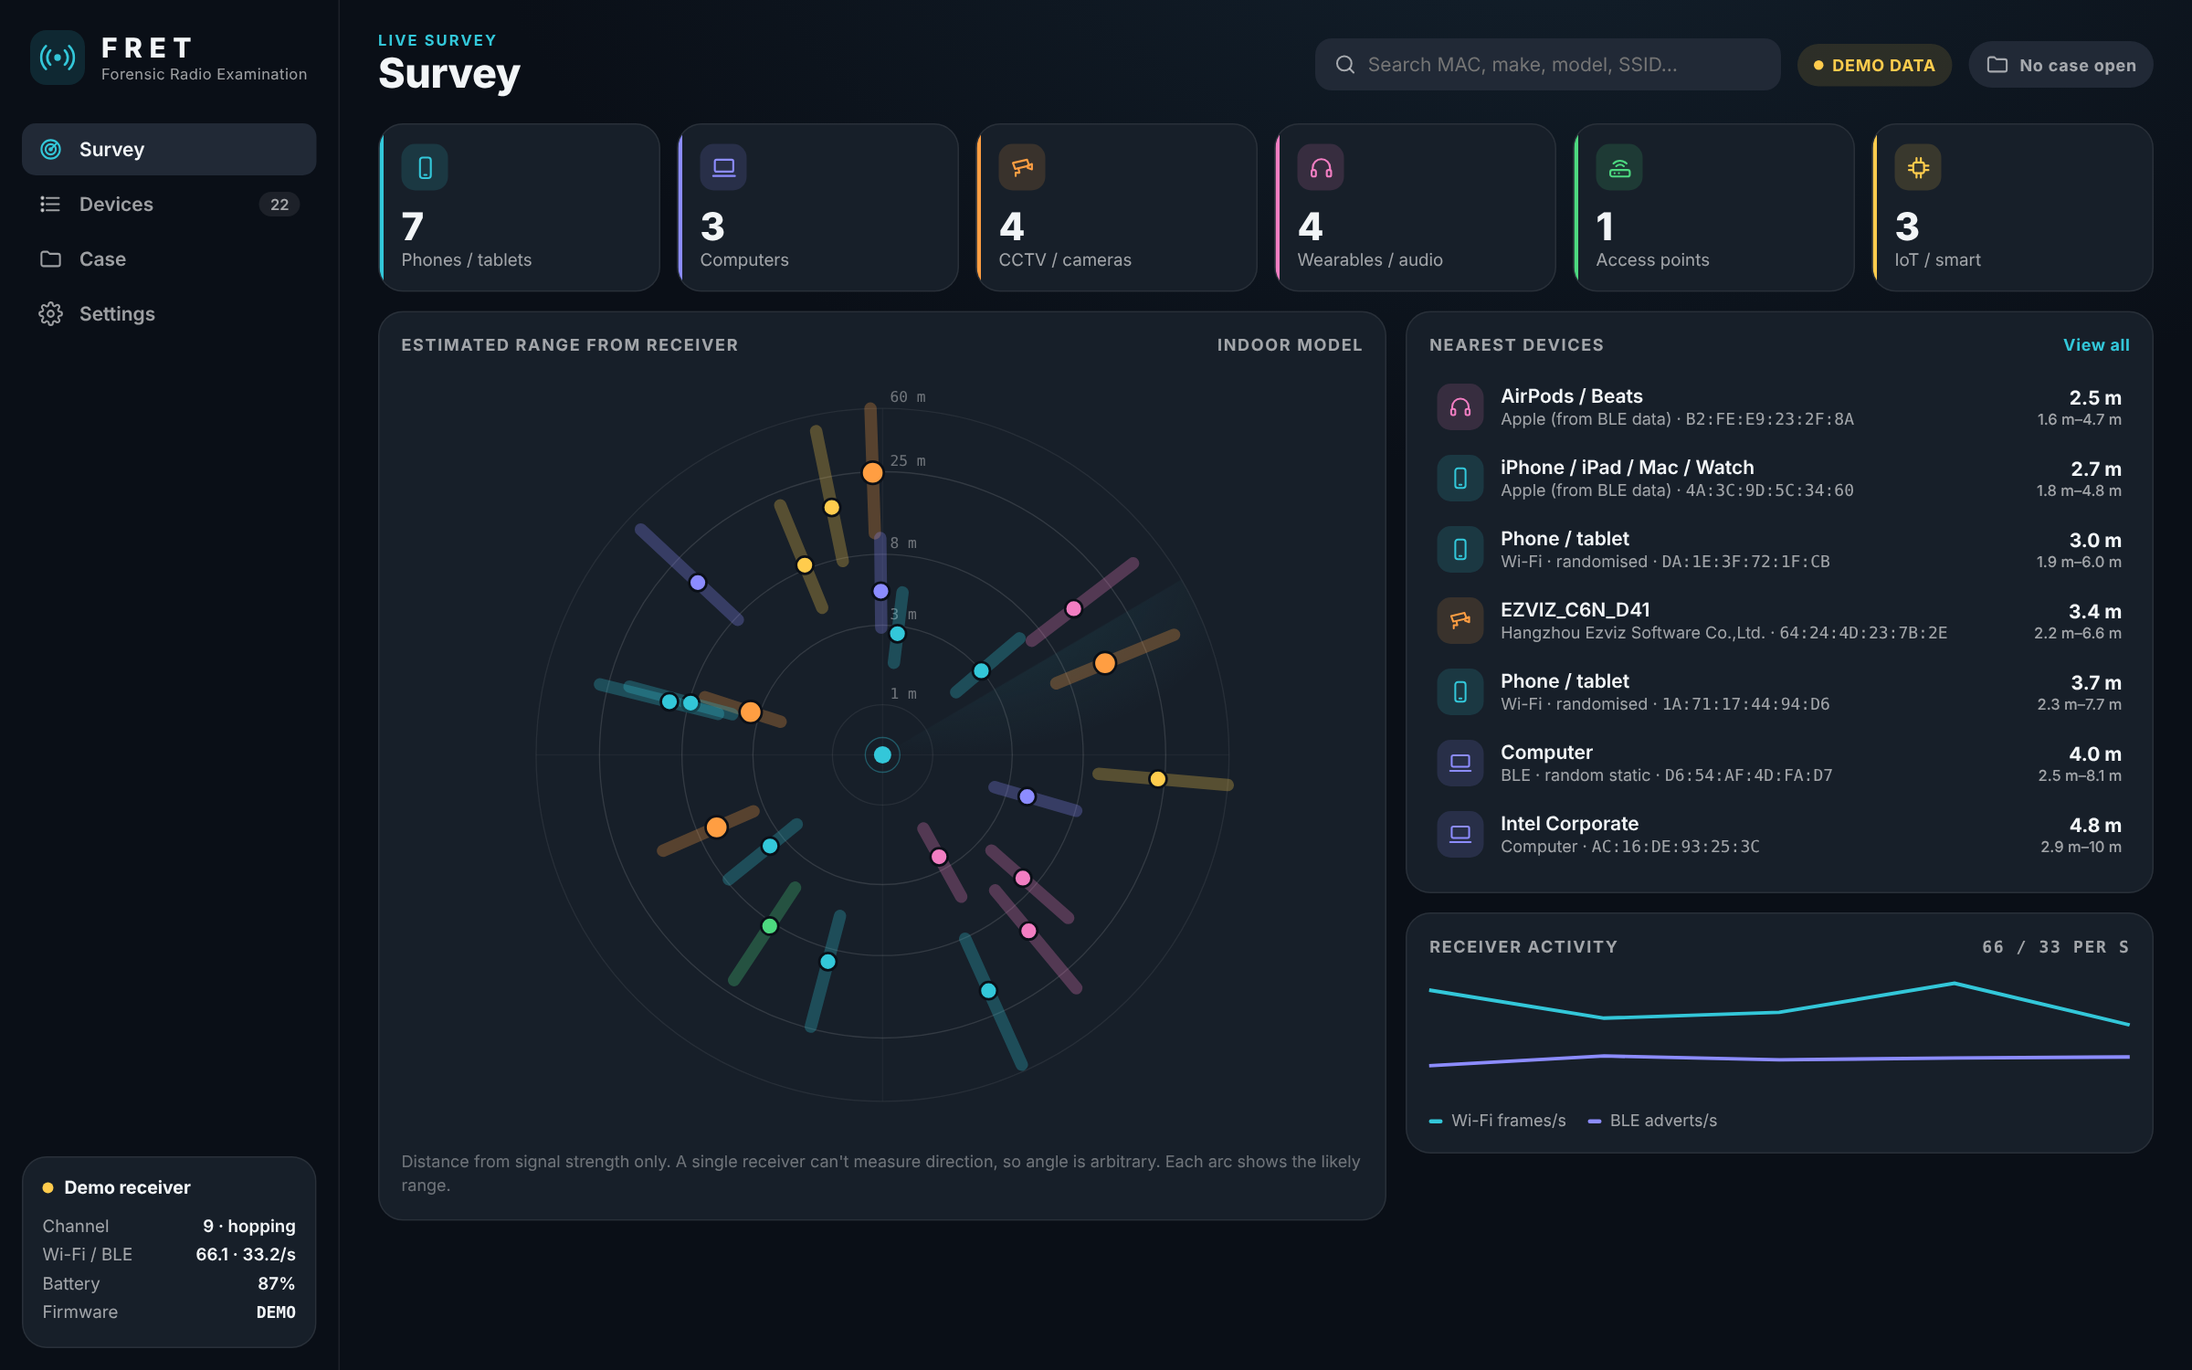
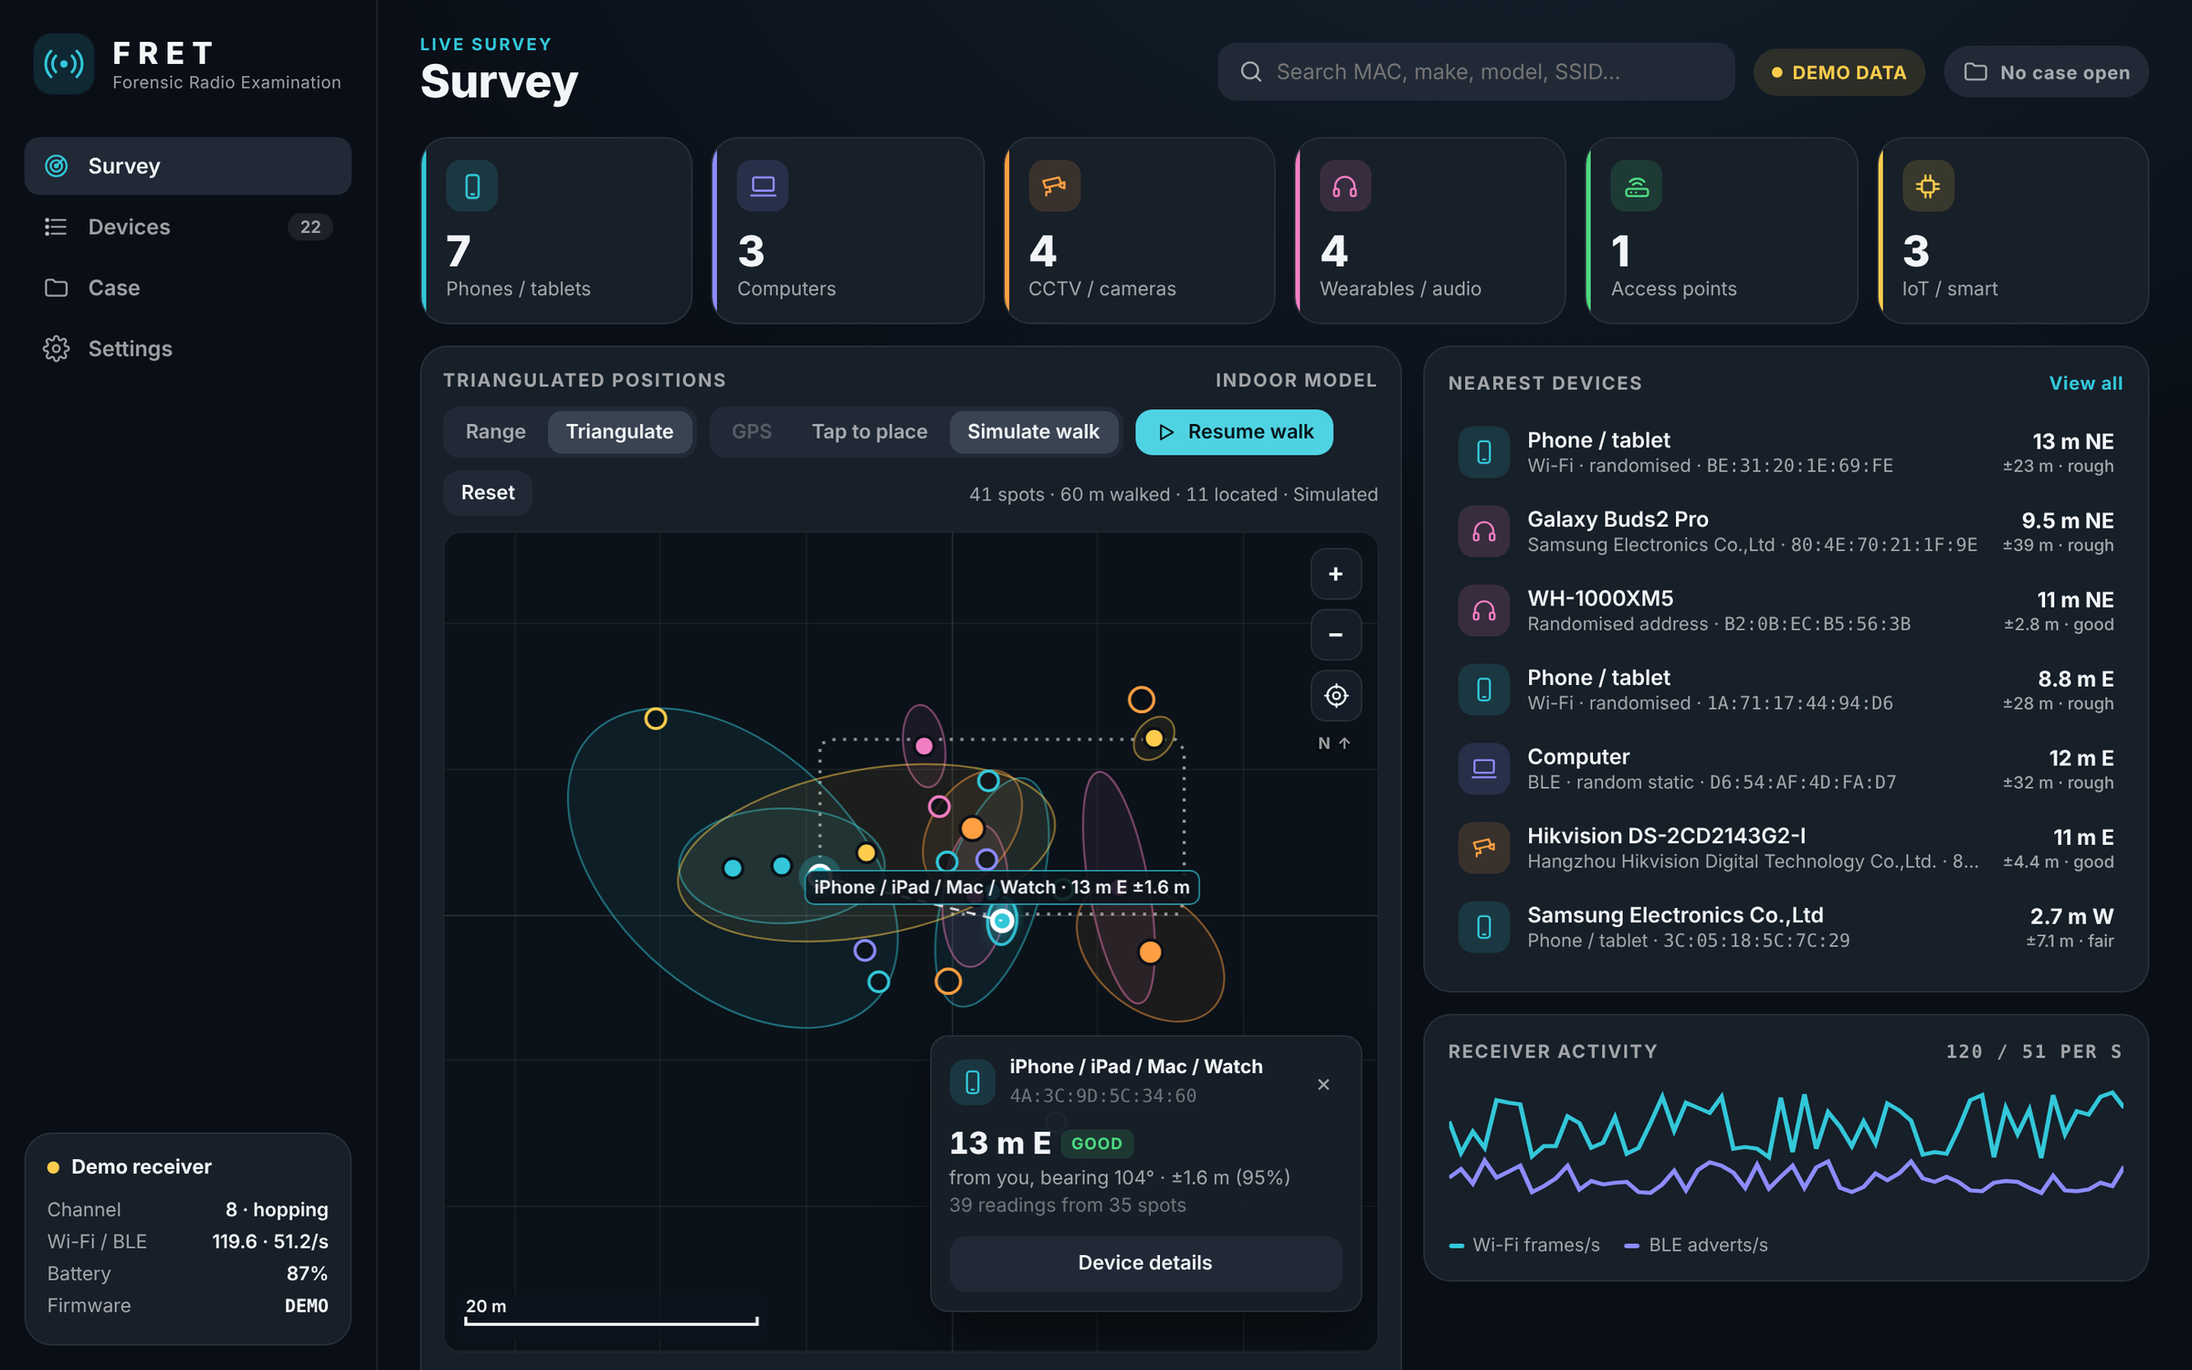
Update README and docs for the survey map and triangulation
- README: intro, features, screenshots (new survey, range and
  triangulate images), requirements, typical survey, how it works
  diagram and solver notes, limitations, map imagery privacy note,
  roadmap and project structure.
- HOW_IT_WORKS: new 'Triangulation from a walk' section.
- Map labels: merge the selected device's name and distance into one
  label, drawn above all markers so nothing covers it.

diff --git a/app/fret/ui/app.js b/app/fret/ui/app.js
@@ -252,7 +252,7 @@ function label(text, x, y, color) {
 }
 function fitZoom(radiusM) { return clamp(Math.log2(156543.03392 * cosLat() / (radiusM / Math.max(80, Math.min(CW, CH) / 2 - 24))), 14, 21.5); }
 
-let drawQueued = false;
+let drawQueued = false, pendingLabel = null;
 function drawMap() { if (!drawQueued) { drawQueued = true; requestAnimationFrame(() => { drawQueued = false; paintMap(); }); } }
 function paintMap() {
   if (S.view !== 'survey' || !S.state || !sizeMap()) return;
@@ -262,8 +262,10 @@ function paintMap() {
   c.fillStyle = '#0b1219'; c.fillRect(0, 0, CW, CH);
   if (!M.tileOk) drawGrid();
   if (!M.noImagery) { drawTiles(); if (M.tileOk) { c.fillStyle = 'rgba(6,10,16,.3)'; c.fillRect(0, 0, CW, CH); } }
+  pendingLabel = null;
   if (M.mode === 'range') drawRange(); else drawTri();
   drawMe(); drawScale();
+  if (pendingLabel) label(...pendingLabel);   // labels go on top of every marker
   cv.classList.toggle('place', M.src === 'tap');
   $('#mAttr').textContent = M.tileOk ? 'Imagery © Esri, Maxar, Earthstar Geographics' : '';
 }
@@ -282,7 +284,7 @@ function drawRange() {
     c.fillStyle = hexA(col, .16); c.beginPath();
     c.arc(sx, sy, r.max / m, 0, Math.PI * 2); c.arc(sx, sy, r.min / m, 0, Math.PI * 2, true); c.fill();
     c.strokeStyle = col; c.lineWidth = 2.5; c.beginPath(); c.arc(sx, sy, r.est / m, 0, Math.PI * 2); c.stroke();
-    label(`${title(d)} · ${fmtM(r.est)}`, sx, sy - r.est / m, col);
+    pendingLabel = [`${title(d)} · ${fmtM(r.est)}`, sx, sy - r.est / m, col];
   }
 }
 
@@ -318,8 +320,7 @@ function drawTri() {
       const [mx, my] = scr(M.me.x, M.me.y), rel = relTo(f);
       c.strokeStyle = 'rgba(255,255,255,.8)'; c.lineWidth = 1.5; c.setLineDash([6, 5]);
       c.beginPath(); c.moveTo(mx, my); c.lineTo(x, y); c.stroke(); c.setLineDash([]);
-      label(`${fmtM(rel.d)} ${rel.dir} · ±${fmtM(f.r95)}`, (mx + x) / 2, (my + y) / 2, col);
-      label(title(d), x, y - 22, col);
+      pendingLabel = [`${title(d)} · ${fmtM(rel.d)} ${rel.dir} ±${fmtM(f.r95)}`, x, y - 22, col];
     }
   }
 }

diff --git a/README.md b/README.md
@@ -12,19 +12,20 @@
   <img alt="Licence" src="https://img.shields.io/badge/licence-GPL--3.0-f27ec2?style=flat-square">
 </p>
 
-**FRET** is a Windows tool for surveying the Wi-Fi and Bluetooth devices around a fixed point. It works with a pocket-sized M5Stack receiver that only listens.
+**FRET** is a Windows tool for surveying the Wi-Fi and Bluetooth devices around you. It works with a pocket-sized M5Stack receiver that only listens. Survey from one spot, or walk the area and FRET triangulates where each device is.
 
 For each phone, tablet, computer, CCTV camera, wearable, router or IoT device it hears, FRET shows:
 
 - the **device type**, with the evidence behind it
 - the **make**, from the IEEE MAC registry
 - the **model**, when the device broadcasts it
-- an **approximate distance** from the receiver
+- an **approximate distance** from the receiver, as a true-scale ring on a satellite map
+- an **approximate position**, distance and compass bearing when you walk the area, with a 95% confidence ellipse
 
 Everything is recorded to a timestamped case log with an audit trail and SHA-256 hashed exports.
 
 <p align="center">
-  <img src="docs/images/survey.png" alt="FRET survey view" width="100%">
+  <img src="docs/images/survey.png" alt="FRET survey view: devices triangulated on the survey map after a walk" width="100%">
 </p>
 
 ---
@@ -72,6 +73,10 @@ Everything is recorded to a timestamped case log with an audit trail and SHA-256
 
 <table>
 <tr>
+<td width="50%"><img src="docs/images/survey-range.png" alt="Range mode"><br><sub><b>Range mode</b>: each device is a true-scale ring at its estimated distance from you. One position can't give direction, so devices are rings, not points.</sub></td>
+<td width="50%"><img src="docs/images/survey-triangulate.png" alt="Triangulate mode"><br><sub><b>Triangulate mode</b>: after a walk (dotted track), each device has a position and a 95% confidence ellipse. The selected device shows its distance, bearing and accuracy.</sub></td>
+</tr>
+<tr>
 <td width="50%"><img src="docs/images/devices.png" alt="Devices view"><br><sub><b>Devices</b>: a sortable, filterable list with the detail panel. This Hikvision camera was identified from its registered address and its WPS model.</sub></td>
 <td width="50%"><img src="docs/images/devices-cctv-filter.png" alt="CCTV filter"><br><sub><b>CCTV filter</b>: one click shows only cameras.</sub></td>
 </tr>
@@ -85,7 +90,7 @@ Everything is recorded to a timestamped case log with an audit trail and SHA-256
 </tr>
 </table>
 
-> Screenshots use FRET's built-in **demo mode**, so all MAC addresses and devices shown are simulated.
+> Screenshots use FRET's built-in **demo mode**, so all MAC addresses and devices shown are simulated. The map shows its offline grid; with an internet connection, satellite imagery is drawn underneath at the same scale.
 
 ---
 
@@ -97,6 +102,7 @@ Everything is recorded to a timestamped case log with an audit trail and SHA-256
 | **Python 3.10 or later** | From [python.org](https://www.python.org/downloads/). Tick **Add python.exe to PATH** when installing |
 | **Receiver** | [M5StickC Plus2](https://docs.m5stack.com/en/core/M5StickC%20PLUS2) (ESP32) **or** [M5Stack StickS3](https://docs.m5stack.com/en/core/StickS3) (ESP32-S3) |
 | **USB-C data cable** | Some cables only charge, and those won't work |
+| **For the survey map (optional)** | An internet connection for satellite imagery. For triangulation, Windows location (a USB GPS receiver helps outdoors) or tap-to-place on the map |
 
 No other software is needed: the flashing script installs PlatformIO itself. An RTL-SDR is **not** used; see [docs/HARDWARE.md](docs/HARDWARE.md#why-not-an-rtl-sdr).
 
@@ -128,13 +134,14 @@ Step-by-step instructions with screenshots and troubleshooting are in **[docs/IN
 
 ### A typical survey
 
-1. Place the receiver at the point of interest. Note the position in the case **Location** field.
+1. Place the receiver at the point of interest. Note the position in the case **Location** field. The Survey map centres on your location; if Windows can't provide one, choose **Tap to place** and tap where you are.
 2. In **Settings**, pick the **Environment**: *Open space*, *Indoor* or *Dense building*.
 3. Optionally, **calibrate**: hold a phone 1 m from the stick, open it in **Devices** and press **Calibrate 1 m**.
 4. In **Case**, enter a reference and press **Start logging**.
 5. Let it run. Most devices show up within 1–5 minutes, but idle devices may stay silent longer.
-6. Review **Devices**. Flag items of interest and add notes, which are saved to the audit trail.
-7. Press **Export & hash now**, or **End case** to write a final export.
+6. To locate devices, switch the Survey map to **Triangulate** and press **Start walk**. Walk a loop or an L-shape across the area, a few metres at a time. With **Tap to place**, tap your new spot each time you stop. Devices appear as points with 95% confidence ellipses as readings build up.
+7. Review **Devices**. Flag items of interest and add notes, which are saved to the audit trail.
+8. Press **Export & hash now**, or **End case** to write a final export.
 
 The full walkthrough is in **[docs/USER_GUIDE.md](docs/USER_GUIDE.md)**.
 
@@ -164,7 +171,9 @@ flowchart LR
         P --> O["OUI lookup<br/>IEEE MA-L/M/S"]
         O --> C["Classify<br/>evidence + confidence"]
         C --> D["Distance<br/>log-distance band"]
-        D --> UI["Desktop UI"]
+        D --> UI["Desktop UI<br/>survey map"]
+        G["Your position<br/>GPS · tap · demo walk"] --> T["Triangulate<br/>grid search + 95% ellipse"]
+        UI --> T
         E --> L[("Case log<br/>SQLite + audit")]
         L --> X["Exports<br/>CSV · JSON · HTML · SHA-256"]
     end
@@ -186,6 +195,9 @@ flowchart LR
   - network name
 - **Distance.** FRET takes the median RSSI over the last 30 s and applies `d = 10^((RSSI₁ₘ − RSSI) / (10·n))`. It gives a min–max band using the environment's range of path-loss exponents `n` and the measured RSSI spread. When a BLE device advertises its TX power, FRET uses that instead of the default.
 
+- **Position (Triangulate mode).** As you walk, FRET pairs each device's RSSI with your position, keeping the median reading for every 1.5 m spot. For each candidate point on a 64 × 64 grid around the walk, it fits the 1 m reference level in closed form (with the calibrated value as a soft ±10 dB prior) and scores how well the log-distance model explains every spot. The best point is the estimate, and the spread of the likelihood around it gives the 95% ellipse. A device needs readings from at least 4 spots spread over 3 m or more. Fits are rated *good* (±6 m or better), *fair* (±15 m) or *rough*.
+- **Map.** Web Mercator tiles from Esri World Imagery, drawn in a local metric frame centred where the walk started, so rings and ellipses are true to scale.
+
 More detail is in **[docs/HOW_IT_WORKS.md](docs/HOW_IT_WORKS.md)**.
 
 ---
@@ -195,6 +207,8 @@ More detail is in **[docs/HOW_IT_WORKS.md](docs/HOW_IT_WORKS.md)**.
 - **2.4 GHz only.** Devices that are only on 5 or 6 GHz won't appear.
 - **Randomised MACs.** Since iOS 14 and Android 10, phones use random Wi-Fi and Bluetooth addresses, so they have **no make from the registry**. FRET still types them, and often names the brand from Bluetooth data. Exact phone models are usually not broadcast.
 - **Distance is a range, not a position.** Walls, bodies and antenna orientation can each shift readings by 5–10 dB. One position cannot give direction. Triangulate mode gets direction by walking, and its accuracy depends on how much ground you cover and in how many directions.
+- **Triangulation needs geometry.** Walking in a straight line can't tell which side of the line a device is on; the ellipse stretches to show it. Cover two directions. Shadowing from walls and bodies varies from spot to spot, so real ellipses are larger than in the demo.
+- **Laptop location is coarse.** Without a GPS receiver, Windows usually locates a laptop from nearby Wi-Fi, to tens of metres. FRET skips triangulation samples worse than ±30 m. Indoors, use **Tap to place**.
 - **Channel hopping.** Very short bursts on another channel can be missed. Lock a channel to watch one network closely.
 - **Quiet devices.** Idle devices may transmit rarely and may not appear at all during a short survey.
 - **Linked addresses are leads, not proof.** Matching probe fingerprints suggest the same handset, but many devices of one model share a fingerprint.
@@ -217,6 +231,7 @@ Documents\FRET Cases\OP-2026-0142_20261102-195549\
 ```
 
 - **Audit trail.** Every examiner action is logged: settings, channel locks, calibration, notes, flags, source changes and exports.
+- **Map imagery reveals the survey area.** Satellite tiles are downloaded from Esri while the map is open, so Esri's servers see which area is being viewed. Work offline if that matters for the case; the map falls back to a metric grid. Triangulated positions are shown in the app and are not yet written to the case log or exports.
 - **No content.** Only frame headers and management-frame tags (SSIDs, capabilities, WPS identity) are kept. Data-frame payloads are never captured.
 
 Details are in **[docs/EVIDENCE.md](docs/EVIDENCE.md)**.
@@ -237,7 +252,7 @@ FRET/
 │   │   ├── tracker.py        per-device state, linking
 │   │   ├── case.py           SQLite case log, exports, report
 │   │   ├── engine.py         ties it together; UI API
-│   │   ├── ui/               HTML/CSS/JS interface
+│   │   ├── ui/               HTML/CSS/JS interface, survey map, triangulation solver
 │   │   └── data/oui.tsv.gz   58k IEEE assignments
 │   ├── setup_windows.bat     one-time install
 │   ├── FRET.bat              launch (live)
@@ -260,7 +275,7 @@ FRET/
 | Guide | |
 |---|---|
 | [Installation](docs/INSTALL.md) | Python, setup, flashing the stick, first run |
-| [User guide](docs/USER_GUIDE.md) | Every screen and setting, survey workflow, calibration |
+| [User guide](docs/USER_GUIDE.md) | Every screen and setting, survey map, triangulation, calibration |
 | [Hardware](docs/HARDWARE.md) | Supported receivers, buttons, why not RTL-SDR |
 | [How it works](docs/HOW_IT_WORKS.md) | Identification, classification and distance in depth |
 | [Evidence handling](docs/EVIDENCE.md) | Case files, audit trail, hashing, verification |
@@ -276,7 +291,9 @@ FRET/
 - [ ] 5 GHz support via an ESP32-C5 receiver
 - [ ] Optional RTL-SDR module for 433/868/915 MHz IoT sensors
 - [ ] Watch-list alerts for specific MACs, vendors or SSIDs
-- [ ] Walk-test mode: log RSSI against position to home in on a device
+- [x] Walk-and-triangulate mode: pair RSSI with position to locate each device (1.3.0)
+- [ ] Record walk tracks and triangulated positions in the case log and report
+- [ ] Phone step-counter positioning for indoor walks without tapping
 - [ ] Signed standalone installer
 
 ---

diff --git a/docs/HOW_IT_WORKS.md b/docs/HOW_IT_WORKS.md
@@ -7,6 +7,7 @@
 - [Device type classification](#device-type-classification)
 - [Linking addresses](#linking-addresses)
 - [Distance estimation](#distance-estimation)
+- [Triangulation from a walk](#triangulation-from-a-walk)
 
 ---
 
@@ -133,4 +134,28 @@ FRET calculates three distances:
 
 **Calibration** inverts the model at a known distance with `n = 2`, giving `RSSI(1 m) = median + 20 · log10(d)`.
 
-One receiver gives range only. Direction needs either several receivers (trilateration, on the roadmap) or a directional antenna.
+One receiver at one spot gives range only. Direction comes from moving the receiver (see below), from several receivers (on the roadmap) or from a directional antenna.
+
+---
+
+## Triangulation from a walk
+
+In **Triangulate** mode the receiver becomes the moving part. FRET takes the examiner's position (Windows location, a tap on the map, or the demo walk), expressed in metres east and north of where the walk started, and solves for where each device must be to explain the readings.
+
+**Collecting.** Once a second, each device heard in the last 1.5 s adds one sample `(x, y, RSSI)`. Samples are grouped into 1.5 m spots, and each spot keeps its median RSSI. A spot's weight is `1 / (16 + 16 / k)` for `k` readings, so it never counts as more certain than about ±4 dB, the typical shadowing from walls and bodies. GPS fixes worse than ±30 m are not sampled.
+
+**Solving.** For each point `p` on a 64 × 64 grid covering the walk plus the likely range:
+
+```
+r'ᵢ = RSSIᵢ + 10 · n · log10(|p − spotᵢ|)          (what each spot implies RSSI(1 m) is)
+A*  = weighted mean of r'ᵢ, plus the calibrated RSSI(1 m) as a pseudo-reading with σ = 10 dB
+cost(p) = Σ wᵢ (r'ᵢ − A*)² + (A* − A₀)² / 100
+```
+
+The reference level is fitted, not assumed, so a poor 1 m calibration doesn't pull the position, only the prior. The point with the lowest cost is the **estimate**. `n` is the environment's middle exponent.
+
+**Uncertainty.** The cost becomes a likelihood `exp(−(cost − min) / 2)` over the grid. Its second moments about the estimate give a covariance, whose eigenvectors set the ellipse, and `2.45 σ` along each axis is the **95% ellipse**. The ellipse is measured about the best point, not the mean, so a mirror ambiguity (a straight-line walk can't tell left from right) widens it instead of putting the point between the two answers. The rating uses the long axis: *good* ≤ 6 m, *fair* ≤ 15 m, otherwise *rough* (also if the best point is on the grid's edge).
+
+**Minimum data.** At least 8 readings from 4 spots, spread over at least 3 m.
+
+**Map and frame.** Positions use a flat local frame (metres from the walk origin), which is accurate over survey distances. Satellite imagery is Esri World Imagery in Web Mercator tiles, scaled to the same metres per pixel. The demo engine places each simulated device on a fixed bearing, and the UI's `set_position` call makes its signals follow the walker.
